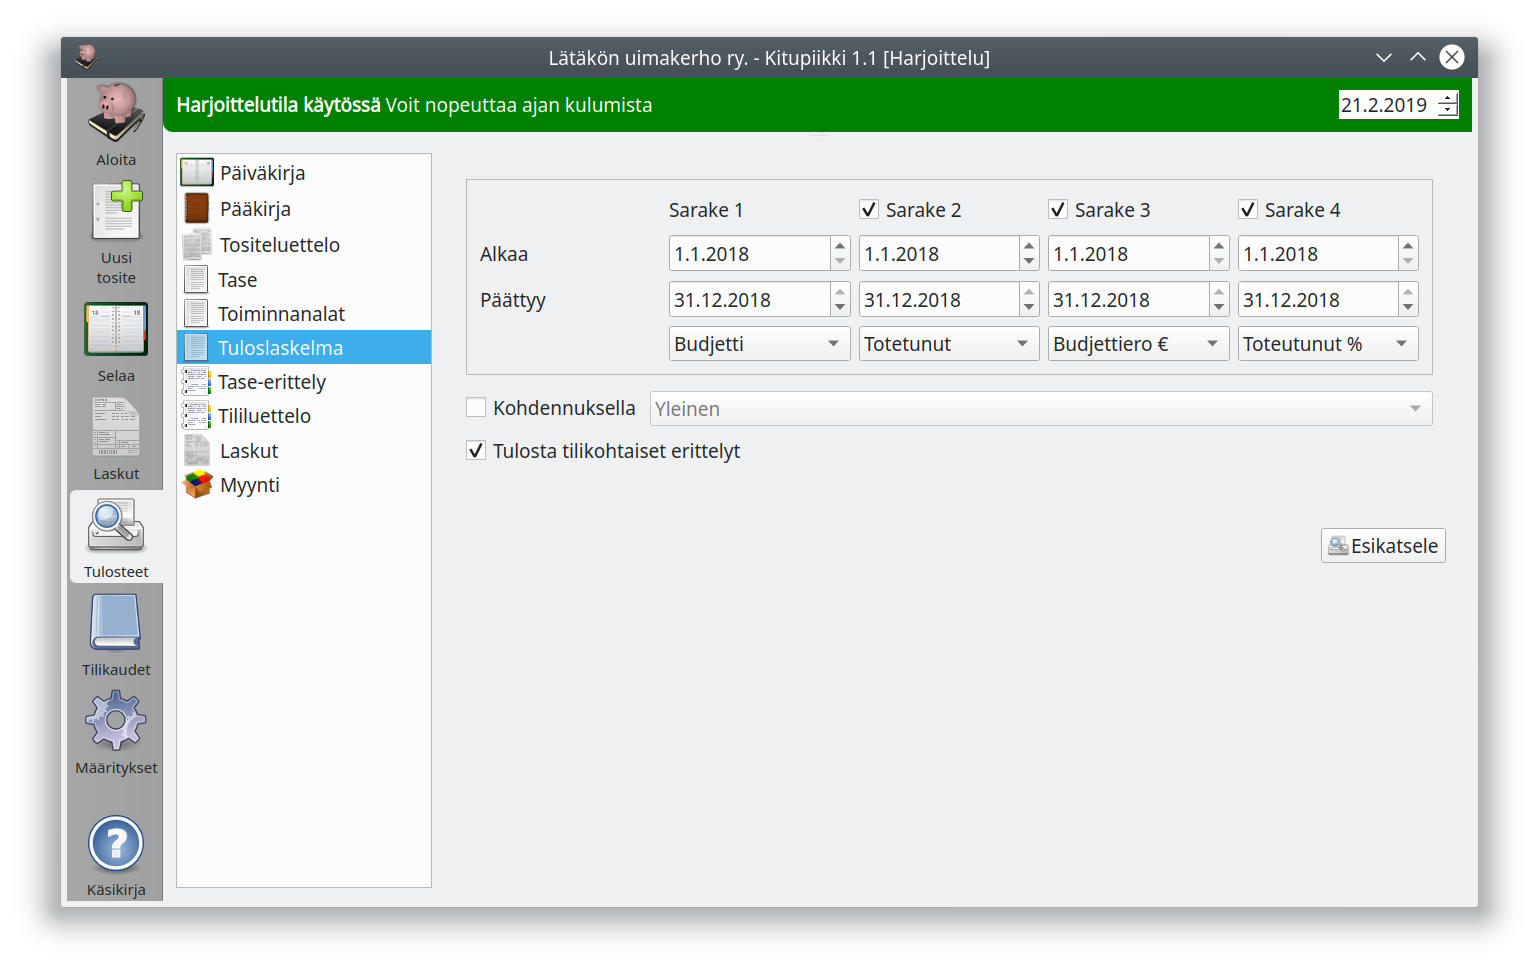
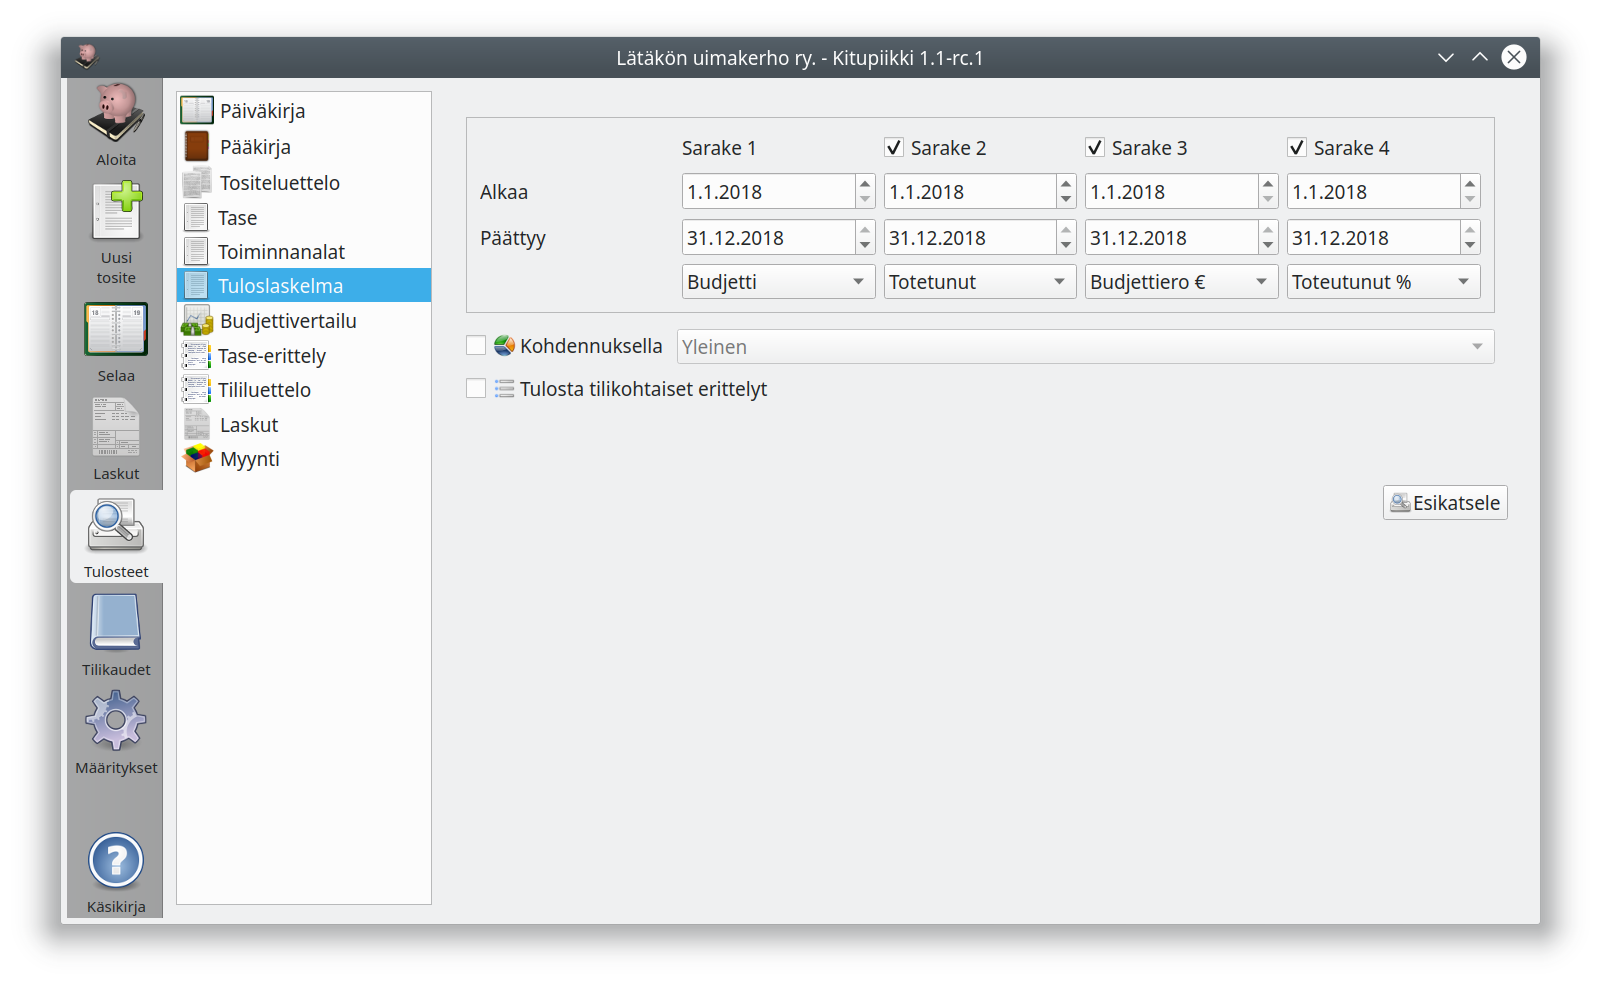
Budjettivertailu-raportti

Changed region(s): [[0.0312, 0.031, 0.9669, 0.9298], [0.8421, 0.5579, 0.9357, 0.5888], [0.8421, 0.4959, 0.9357, 0.5269]]

diff --git a/kitupiikki/raportti/budjettivertailu.cpp b/kitupiikki/raportti/budjettivertailu.cpp
@@ -17,6 +17,9 @@
 #include "budjettivertailu.h"
 #include "db/kirjanpito.h"
 #include "db/tilikausimodel.h"
+#include <QComboBox>
+
+#include "raportoija.h"
 
 Budjettivertailu::Budjettivertailu() :
     Raportti(nullptr)
@@ -54,6 +57,24 @@ Budjettivertailu::Budjettivertailu() :
         ui_->raporttiCombo->addItem( QIcon(":/pic/tekstisivu.png"),nimi.mid(9), nimi );
     }
 
+    if( ui_->raporttiCombo->findText("Tuloslaskelma") > -1)
+        ui_->raporttiCombo->setCurrentIndex( ui_->raporttiCombo->findText("Tuloslaskelma") );
+
+
+    if( kp()->kohdennukset()->kohdennuksia())
+    {
+        ui_->kohdennusCombo->setModel( kp()->kohdennukset());
+        ui_->kohdennusCombo->setModelColumn( KohdennusModel::NIMI);
+    }
+    else
+    {
+        ui_->kohdennusCheck->setVisible(false);
+        ui_->kohdennusCombo->setVisible(false);
+    }
+
+    paivitaMuodot();
+    connect( ui_->raporttiCombo, SIGNAL( currentIndexChanged(int) ), this, SLOT(paivitaMuodot()));
+
 }
 
 Budjettivertailu::~Budjettivertailu()
@@ -63,6 +84,47 @@ Budjettivertailu::~Budjettivertailu()
 
 RaportinKirjoittaja Budjettivertailu::raportti()
 {
-    RaportinKirjoittaja rk;
-    return rk;
+    QString raporttiTyyppi = ui_->raporttiCombo->currentData().toString().mid(9);
+    if( ui_->muotoCombo->isVisible())
+        raporttiTyyppi = ui_->muotoCombo->currentData().toString();
+
+    Raportoija raportoija(raporttiTyyppi);
+
+    Tilikausi kausi = kp()->tilikaudet()->tilikausiIndeksilla( ui_->kausiCombo->currentIndex() );
+    raportoija.lisaaKausi( kausi.alkaa(), kausi.paattyy(),  Raportoija::BUDJETTI );
+    raportoija.lisaaKausi( kausi.alkaa(), kausi.paattyy(),  Raportoija::TOTEUTUNUT );
+    raportoija.lisaaKausi( kausi.alkaa(), kausi.paattyy(),  Raportoija::BUDJETTIERO );
+    raportoija.lisaaKausi( kausi.alkaa(), kausi.paattyy(),  Raportoija::TOTEUMAPROSENTTI );
+
+    return  raportoija.raportti( ui_->erittelyCheck->isChecked());
+
+}
+
+void Budjettivertailu::paivitaMuodot()
+{
+    QString raporttiTyyppi = ui_->raporttiCombo->currentData().toString();
+
+    QStringList muodot = kp()->asetukset()->avaimet( raporttiTyyppi + '/');
+
+    bool monimuoto = muodot.count();
+
+    ui_->muotoCombo->setVisible( monimuoto);
+    ui_->muotoLabel->setVisible( monimuoto);
+
+    ui_->muotoCombo->clear();
+
+    if( monimuoto )
+    {
+        for( const QString& muoto : muodot)
+        {
+            ui_->muotoCombo->addItem( muoto.mid(muoto.lastIndexOf(QChar('/'))+1) , muoto.mid(9) );
+        }
+
+        // Oletuksena monesta muodosta valittuna Yleinen
+        if( ui_->muotoCombo->findText("Yleinen") > -1)
+            ui_->muotoCombo->setCurrentIndex( ui_->muotoCombo->findText("Yleinen") );
+
+    }
+
+
 }

diff --git a/kitupiikki/raportti/budjettivertailu.h b/kitupiikki/raportti/budjettivertailu.h
@@ -32,6 +32,9 @@ public:
 
     RaportinKirjoittaja raportti() override;
 
+protected slots:
+    void paivitaMuodot();
+
 protected:
     Ui::Budjettivertailu *ui_;
 };

diff --git a/docs/tilikaudet/budjetti/index.md b/docs/tilikaudet/budjetti/index.md
@@ -10,9 +10,13 @@ Budjetin pääset syöttämään **Tilikaudet**-välilehden **Budjetti**-painikk
 
 ## Budjetin seuranta
 
-![](raportti.png)
+Budjetin toteutumista voit seurata **Budjettivertailu**-raportilla.
 
-Budjetin toteutumista voit seurata **Tuloslaskelma** tai **Toiminnanalat**-raporteista valitsemalla eri sarakkeille haluamasi asiat.
+![](vertailuraportti.png)
+
+Jos haluat muuttaa budjettivertailun sarakkeita, valitse **Tuloslaskelma** tai **Toiminnanalat**-raporttiin tulostettavat sarakkeet:
+
+![](raportti.png)
 
 * **Toteutunut** seuraa toteutuneita tapahtumia
 * **Budjetti** näyttää määritellyn bubjetin
